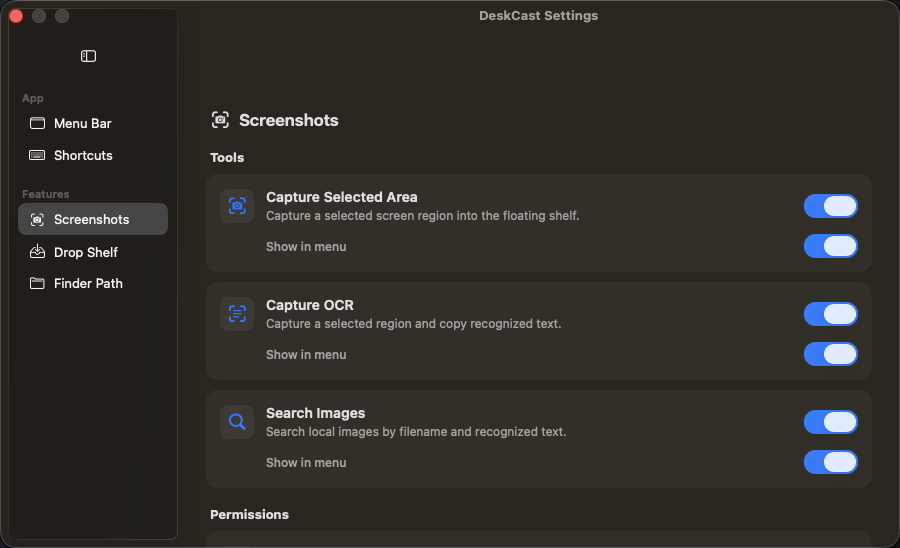
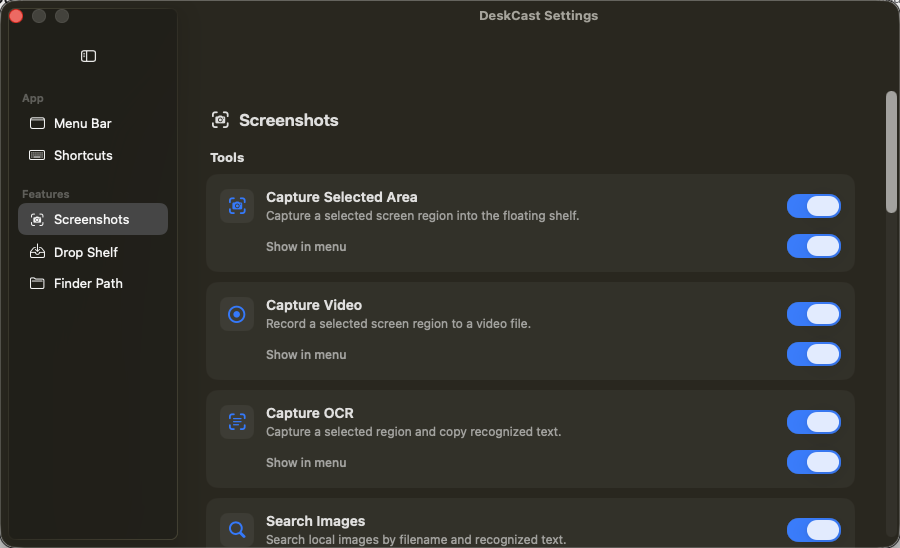
Add video capture feature showcase

diff --git a/src/App.css b/src/App.css
@@ -148,6 +148,56 @@
   overflow: hidden;
 }
 
+.main-feature-mockup {
+  position: relative;
+  width: 100%;
+  min-height: 360px;
+  display: flex;
+  align-items: center;
+  justify-content: center;
+}
+
+.main-feature-capture {
+  width: min(610px, 74%);
+  transform: translateX(-10%);
+}
+
+.main-feature-arrow {
+  position: absolute;
+  z-index: 3;
+  left: 65%;
+  top: 47%;
+  width: 42px;
+  height: 42px;
+  display: grid;
+  place-items: center;
+  color: #fff;
+  font-size: 1.3rem;
+  border: 1px solid rgba(255, 255, 255, 0.26);
+  border-radius: 50%;
+  background: rgba(10, 132, 255, 0.9);
+  box-shadow: 0 12px 24px rgba(0, 0, 0, 0.32);
+}
+
+.main-feature-shelf {
+  position: absolute;
+  z-index: 2;
+  right: 0;
+  bottom: 0;
+  width: min(210px, 32%);
+  padding: 14px;
+  border: 1px solid rgba(255, 255, 255, 0.14);
+  border-radius: 18px;
+  background: rgba(20, 23, 34, 0.82);
+  backdrop-filter: blur(18px);
+  box-shadow: 0 22px 44px rgba(0, 0, 0, 0.42);
+}
+
+.main-feature-shelf .product-shot--shelf {
+  width: 100%;
+  border-radius: 10px;
+}
+
 /* ==================== SHELF MOCKUP ==================== */
 .shelf {
   display: flex;
@@ -310,6 +360,125 @@
 .product-shot--drop { width: min(380px, 100%); }
 .product-shot--menu { width: min(235px, 100%); }
 .product-shot--window { width: 100%; }
+
+.capture-selection-mockup {
+  position: relative;
+  width: min(520px, 100%);
+  aspect-ratio: 16 / 10;
+  overflow: hidden;
+  border-radius: 18px;
+  background: #11141f;
+  box-shadow: 0 28px 50px -20px rgba(0, 0, 0, 0.62);
+}
+
+.capture-selection-shot {
+  width: 100%;
+  height: 100%;
+  display: block;
+  object-fit: cover;
+}
+
+.capture-selection-frame {
+  position: absolute;
+  inset: 12% 9%;
+  border: 2px solid rgba(255, 255, 255, 0.96);
+  border-radius: 8px;
+  box-shadow: 0 0 0 999px rgba(0, 0, 0, 0.36);
+}
+
+.capture-selection-frame::before,
+.capture-selection-frame::after {
+  content: "";
+  position: absolute;
+  width: 12px;
+  height: 12px;
+  border-radius: 50%;
+  background: #fff;
+  box-shadow: 0 2px 7px rgba(0, 0, 0, 0.38);
+}
+
+.capture-selection-frame::before { left: -7px; top: -7px; }
+.capture-selection-frame::after { right: -7px; bottom: -7px; }
+
+.capture-selection-label {
+  position: absolute;
+  z-index: 1;
+  left: 50%;
+  bottom: 8%;
+  transform: translateX(-50%);
+  white-space: nowrap;
+  padding: 7px 11px;
+  color: #fff;
+  font-size: 0.75rem;
+  font-weight: 650;
+  border-radius: 999px;
+  background: rgba(20, 20, 24, 0.72);
+  backdrop-filter: blur(14px);
+}
+
+.video-capture-mockup {
+  position: relative;
+  width: min(430px, 100%);
+  aspect-ratio: 16 / 10;
+  overflow: hidden;
+  border-radius: 18px;
+  box-shadow: 0 28px 50px -20px rgba(0, 0, 0, 0.62);
+}
+
+.video-capture-shot {
+  width: 100%;
+  height: 100%;
+  display: block;
+  object-fit: cover;
+}
+
+.recording-frame {
+  position: absolute;
+  inset: 18px;
+  border: 2px solid rgba(255, 255, 255, 0.88);
+  border-radius: 12px;
+  box-shadow: 0 0 0 999px rgba(0, 0, 0, 0.22);
+  pointer-events: none;
+}
+
+.recording-frame::before,
+.recording-frame::after {
+  content: "";
+  position: absolute;
+  width: 18px;
+  height: 18px;
+  border-radius: 50%;
+  background: #fff;
+  box-shadow: 0 2px 8px rgba(0, 0, 0, 0.32);
+}
+
+.recording-frame::before { left: -10px; top: -10px; }
+.recording-frame::after { right: -10px; bottom: -10px; }
+
+.recording-badge {
+  position: absolute;
+  z-index: 1;
+  top: 30px;
+  left: 30px;
+  display: inline-flex;
+  align-items: center;
+  gap: 8px;
+  padding: 8px 12px;
+  color: #fff;
+  font-size: 0.8rem;
+  font-weight: 650;
+  border-radius: 999px;
+  background: rgba(20, 20, 24, 0.7);
+  backdrop-filter: blur(14px);
+}
+
+.recording-dot {
+  width: 9px;
+  height: 9px;
+  border-radius: 50%;
+  background: #ff453a;
+  box-shadow: 0 0 0 4px rgba(255, 69, 58, 0.18);
+}
 
 /* ==================== DROP SHELF MOCKUP ==================== */
 .drop {
@@ -698,4 +867,14 @@
   .feature-grid.reverse .feature-visual { order: 0; }
   .download-steps { grid-template-columns: 1fr; }
   .hero-desktop { aspect-ratio: 4 / 3; justify-content: center; }
+  .main-feature-mockup { min-height: 0; height: 100%; }
+  .main-feature-capture { width: 82%; transform: translate(-6%, -4%); }
+  .main-feature-shelf { right: -2%; bottom: -2%; width: 34%; padding: 8px; }
+  .main-feature-arrow {
+    left: 64%;
+    width: 30px;
+    height: 30px;
+    font-size: 1rem;
+  }
+  .capture-selection-label { display: none; }
 }

diff --git a/src/components/Features.jsx b/src/components/Features.jsx
@@ -1,9 +1,21 @@
 import Reveal from "./Reveal.jsx";
+import CaptureMockup from "./mockups/CaptureMockup.jsx";
 import ShelfMockup from "./mockups/ShelfMockup.jsx";
+import VideoCaptureMockup from "./mockups/VideoCaptureMockup.jsx";
+import ImageSearchMockup from "./mockups/ImageSearchMockup.jsx";
 import DropShelfMockup from "./mockups/DropShelfMockup.jsx";
 import MenuBarMockup from "./mockups/MenuBarMockup.jsx";
 
 const rows = [
+  {
+    id: "capture",
+    eyebrow: "Capture Selected Area",
+    title: "Screenshot only what you need.",
+    body: "Drag over any part of your screen and DeskCast captures that exact region. The native macOS selection flow stays familiar and fast.",
+    bullets: ["Precise region capture", "Global shortcut", "Native macOS selection"],
+    Visual: CaptureMockup,
+    dark: false,
+  },
   {
     id: "shelf",
     eyebrow: "Screenshot Shelf",
@@ -11,7 +23,27 @@ const rows = [
     body: "Snap a region and it drops into a shelf that hovers over your work. Reorder, pin the ones you need, and drag any shot straight into another app — just like macOS, now with a memory.",
     bullets: ["Region capture", "Drag out to any app", "Pin · reorder · auto-hide"],
     Visual: ShelfMockup,
+    dark: true,
+    reverse: true,
+  },
+  {
+    id: "video-capture",
+    eyebrow: "Selected-area video",
+    title: "Record exactly the part that matters.",
+    body: "Choose a region and start recording with the native macOS capture flow. DeskCast saves the finished .mov to your selected export folder, ready to share.",
+    bullets: ["Native macOS recorder", "Custom global shortcut", "Saved as .mov"],
+    Visual: VideoCaptureMockup,
     dark: false,
+  },
+  {
+    id: "image-search",
+    eyebrow: "Image Search",
+    title: "Find screenshots by the words inside them.",
+    body: "Index a folder once, then search screenshots by filename or recognized text. The result you remember is a few keystrokes away.",
+    bullets: ["On-device OCR", "Filename + text search", "Local folder indexing"],
+    Visual: ImageSearchMockup,
+    dark: true,
+    reverse: true,
   },
   {
     id: "drop",
@@ -20,17 +52,17 @@ const rows = [
     body: "A floating tray that collects files, folders, links, text, and images from anywhere. Pile things up across apps, then send them together — or shake while dragging to summon it instantly.",
     bullets: ["Collect from any app", "Shake-to-open", "Send together"],
     Visual: DropShelfMockup,
-    dark: true,
-    reverse: true,
+    dark: false,
   },
   {
     id: "menu",
     eyebrow: "One menu, every tool",
     title: "Lives in the menu bar. Stays out of your way.",
-    body: "No Dock icon, no window clutter. DeskCast tucks into the menu bar with tidy, toggleable tools — capture, OCR, image search, and Finder‑path copy — a keystroke away.",
+    body: "No Dock icon, no window clutter. DeskCast tucks into the menu bar with tidy, toggleable tools — screenshots, video capture, OCR, image search, and Finder‑path copy — a keystroke away.",
     bullets: ["No Dock icon", "Global shortcuts", "Toggle each tool"],
     Visual: MenuBarMockup,
-    dark: false,
+    dark: true,
+    reverse: true,
   },
 ];
 

diff --git a/src/components/Hero.jsx b/src/components/Hero.jsx
@@ -1,5 +1,5 @@
 import { motion, useReducedMotion } from "motion/react";
-import ShelfMockup from "./mockups/ShelfMockup.jsx";
+import MainFeatureMockup from "./mockups/MainFeatureMockup.jsx";
 import { DMG_URL, VERSION } from "../config.js";
 
 export default function Hero() {
@@ -26,8 +26,9 @@ export default function Hero() {
         </motion.h1>
         <motion.p className="lede hero-lede" {...rise(0.12)}>
           DeskCast lives quietly in your menu bar. Snap a region into a floating
-          shelf, gather files onto a drop tray, and search every screenshot by
-          its text — all in a single, focused little app.
+          shelf, record a selected area, gather files onto a drop tray, and
+          search every screenshot by its text — all in a single, focused little
+          app.
         </motion.p>
 
         <motion.div className="hero-actions" {...rise(0.18)}>
@@ -54,7 +55,7 @@ export default function Hero() {
           }
         >
           <div className="hero-desktop" aria-hidden="true">
-            <ShelfMockup />
+            <MainFeatureMockup />
           </div>
         </motion.div>
       </div>

diff --git a/src/components/Gallery.jsx b/src/components/Gallery.jsx
@@ -1,12 +1,16 @@
 import Reveal from "./Reveal.jsx";
+import CaptureMockup from "./mockups/CaptureMockup.jsx";
 import ShelfMockup from "./mockups/ShelfMockup.jsx";
+import VideoCaptureMockup from "./mockups/VideoCaptureMockup.jsx";
 import DropShelfMockup from "./mockups/DropShelfMockup.jsx";
 import ImageSearchMockup from "./mockups/ImageSearchMockup.jsx";
 import MenuBarMockup from "./mockups/MenuBarMockup.jsx";
 import SettingsMockup from "./mockups/SettingsMockup.jsx";
 
 const frames = [
+  { title: "Capture Selected Area", caption: "Screenshot exactly the region you need.", Visual: CaptureMockup },
   { title: "Screenshot Shelf", caption: "Captures stack up, ready to drag out.", Visual: ShelfMockup },
+  { title: "Video Recording", caption: "Record a selected area with the native macOS flow.", Visual: VideoCaptureMockup },
   { title: "Image Search", caption: "Find any screenshot by the text inside it.", Visual: ImageSearchMockup },
   { title: "Drop Shelf", caption: "A staging tray for anything you drag.", Visual: DropShelfMockup },
   { title: "Menu bar", caption: "One tidy menu, zero window clutter.", Visual: MenuBarMockup },

diff --git a/src/components/mockups/CaptureMockup.jsx b/src/components/mockups/CaptureMockup.jsx
@@ -1,0 +1,15 @@
+export default function CaptureMockup() {
+  return (
+    <div className="capture-selection-mockup">
+      <img
+        className="capture-selection-shot"
+        src="/screenshots/settings.png?v=capture-video"
+        alt="DeskCast settings inside a selected screenshot region"
+      />
+      <div className="capture-selection-frame" aria-hidden="true" />
+      <div className="capture-selection-label" aria-hidden="true">
+        Capture selected area
+      </div>
+    </div>
+  );
+}

diff --git a/src/components/mockups/VideoCaptureMockup.jsx b/src/components/mockups/VideoCaptureMockup.jsx
@@ -1,0 +1,16 @@
+export default function VideoCaptureMockup() {
+  return (
+    <div className="video-capture-mockup">
+      <img
+        className="video-capture-shot"
+        src="/demo-poster.jpg"
+        alt="A real DeskCast workflow ready to be captured as video"
+      />
+      <div className="recording-badge" aria-hidden="true">
+        <span className="recording-dot" />
+        Selected area
+      </div>
+      <div className="recording-frame" aria-hidden="true" />
+    </div>
+  );
+}

diff --git a/src/components/mockups/MainFeatureMockup.jsx b/src/components/mockups/MainFeatureMockup.jsx
@@ -1,0 +1,16 @@
+import CaptureMockup from "./CaptureMockup.jsx";
+import ShelfMockup from "./ShelfMockup.jsx";
+
+export default function MainFeatureMockup() {
+  return (
+    <div className="main-feature-mockup">
+      <div className="main-feature-capture">
+        <CaptureMockup />
+      </div>
+      <div className="main-feature-arrow" aria-hidden="true">→</div>
+      <div className="main-feature-shelf">
+        <ShelfMockup />
+      </div>
+    </div>
+  );
+}

diff --git a/src/components/mockups/SettingsMockup.jsx b/src/components/mockups/SettingsMockup.jsx
@@ -2,7 +2,7 @@ export default function SettingsMockup() {
   return (
     <img
       className="product-shot product-shot--window"
-      src="/screenshots/settings.png"
+      src="/screenshots/settings.png?v=capture-video"
       alt="DeskCast settings for screenshot tools"
     />
   );
